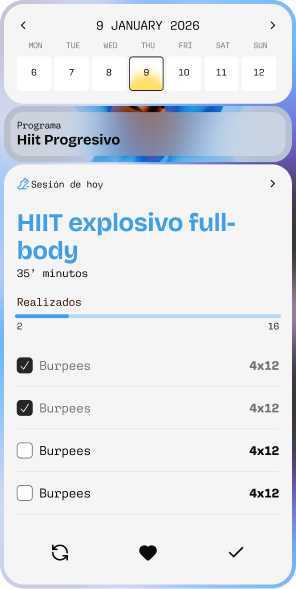
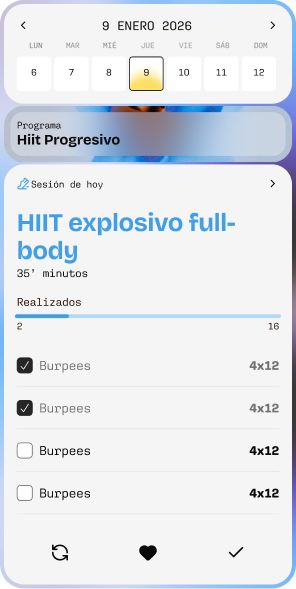
fix(imágenes): captura de entrenadoras en ES/EN/FR y calendario en español
La captura de la sección de entrenadoras mezclaba inglés y español; ahora
hay una versión por idioma (data-src-i18n). En la imagen 4 en español el
mes y los días de la semana pasan de inglés a español.

diff --git a/index.html b/index.html
@@ -304,7 +304,7 @@
           <source src="assets/video/ovulacion.mp4" type="video/mp4">
         </video>
         <div class="trainer-frame">
-          <img src="assets/figma/entrenadora-frame.png" alt="" class="trainer-frame-img">
+          <img src="assets/figma/entrenadora-frame.png" data-src-i18n="assets/figma/entrenadora-frame" alt="" class="trainer-frame-img">
         </div>
       </div>
     </section>
@@ -748,6 +748,9 @@
         const own = lang !== 'es' && langs.includes(lang);
         const url = own ? el.dataset.bgI18n + '-' + lang + '.jpg' : el.dataset.bgI18n + '.' + (el.dataset.bgExt || 'jpg');
         el.style.backgroundImage = "url('" + url + "')";
+      });
+      document.querySelectorAll('[data-src-i18n]').forEach(el => {
+        el.src = el.dataset.srcI18n + (lang === 'es' ? '' : '-' + lang) + '.png';
       });
       ['es','en','fr'].forEach(l => {
         const btn = document.getElementById('btn-' + l);
